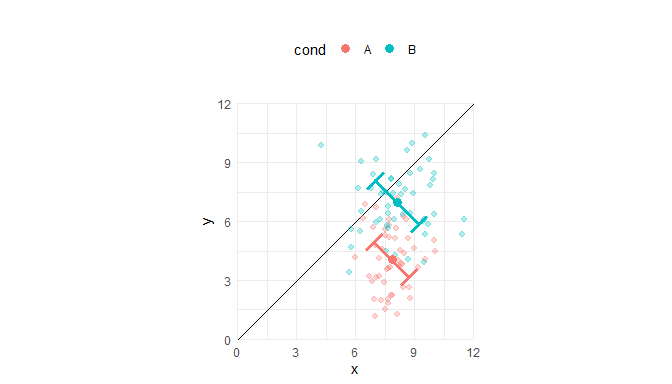
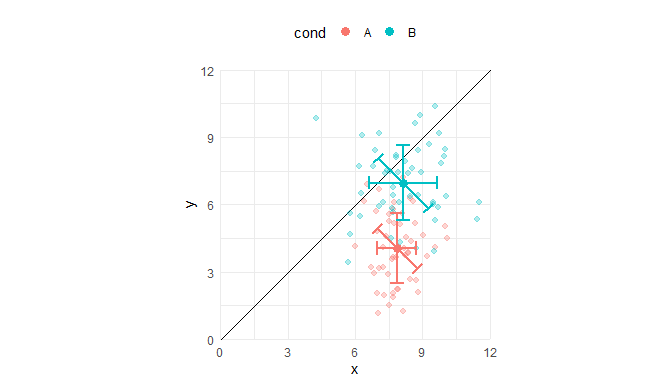
Rotate points in 2D and update example
Points are rotated using an extra function. Renamed aesthetics for clarity. Not sure if the diagonal error bars are not correctly adjusted.

diff --git a/README.md b/README.md
@@ -35,6 +35,8 @@ set.seed(12)
 
 # dummy data
 n <- 50
+alpha.error <- 0.05
+
 dat <- data.frame(
   x = c(
     rnorm(n, m = 8, sd = 1),
@@ -52,15 +54,19 @@ dat <- data.frame(
 dat$d <- with(dat, y - x) # pairwise difference of x and y
 agg <- dat %>%
   group_by(cond) %>%
-  summarise(x = mean(x),
-            y = mean(y),
+  summarise(x_M = mean(x),
+            x_SD = sd(x),
+            x_SE = sd(x) / sqrt(n()),
+            y_M = mean(y),
+            y_SD = sd(y),
+            y_SE = sd(y) / sqrt(n()),
             d_M = mean(d),
             d_SD = sd(d),
             d_SE = sd(d) / sqrt(n()),
             n = n())
 
 # plot
-ggplot(
+plt <- ggplot(
   data = dat,
   mapping = aes(
     x = x, y = y,
@@ -69,32 +75,68 @@ ggplot(
   )
 ) +
   geom_abline(intercept = 0, slope = 1) +
+  # observations
   geom_point(alpha = 0.3, shape = 20, size = 3) +
+  # means
   geom_point(
     data = agg,
     mapping = aes(
-      x = x, y = y,
+      x = x_M, y = y_M,
       group = cond,
       color = cond
     ),
     shape = 19, size = 3
   ) +
+  # errors of means
   ggerrorbard::geom_errorbard(
     data = agg,
     mapping = aes(
-      x = x, y = y, # center points of error bars
+      x = x_M, y = y_M, # center points of error bars
       group = cond,
       color = cond,
-      latitude = 2 * d_SD / sqrt(2), # width of error bars
-      angle = -45
-    ), # angle of error bars
+      radius = y_SD, # radius of y error bars
+      angle_deg = 0
+    ),
+    arrow = arrow(
+      angle = 90,
+      ends = "both",
+      length = unit(0.025, "npc")
+    ),
+    linewidth = 1
+  ) +
+    ggerrorbard::geom_errorbard(
+    data = agg,
+    mapping = aes(
+      x = x_M, y = y_M, # center points of error bars
+      group = cond,
+      color = cond,
+      radius = x_SD, # radius of x error bars
+      angle_deg = 90
+    ),
+    arrow = arrow(
+      angle = 90,
+      ends = "both",
+      length = unit(0.025, "npc")
+    ),
+    linewidth = 1
+  ) +
+  # error of differences of means
+  ggerrorbard::geom_errorbard(
+    data = agg,
+    mapping = aes(
+      x = x_M, y = y_M, # center points of error bars
+      group = cond,
+      color = cond,
+      radius = d_SD / 2 * sqrt(2), # radius of error bars, adjusted of 45° rotation (?)
+      angle_deg = 45
+    ),
     # arrows on ends of error bars
     arrow = arrow(
       angle = 90,
       ends = "both",
-      length = unit(0.05, "npc")
+      length = unit(0.025, "npc")
     ),
-    linewidth = 1.1
+    linewidth = 1
   ) +
   scale_x_continuous(expand = c(0, 0), limits = c(0, 12)) +
   scale_y_continuous(expand = c(0, 0), limits = c(0, 12)) +
@@ -102,16 +144,22 @@ ggplot(
   coord_equal() +
   theme_minimal() +
   theme(legend.position = "top")
+
+print(plt)
 ```
 
 <div class="figure">
 
-<img src="man/figures/README-example-1.png" alt="Pairwise differences. Error bars indicate the standard deviations." width="100%" />
+<img src="man/figures/README-example-1.png" alt="Pairwise differences. Error bars represent the standard deviations." width="100%" />
 <p class="caption">
-Pairwise differences. Error bars indicate the standard deviations.
+Pairwise differences. Error bars represent the standard deviations.
 </p>
 
 </div>
+
+Use `angle_deg = 0` for standard vertical error bars and
+`angle_deg = 90` for horizontal error bars. For diagonal error bars,
+specify `angle_deg = 45`.
 
 ## Limitations
 
